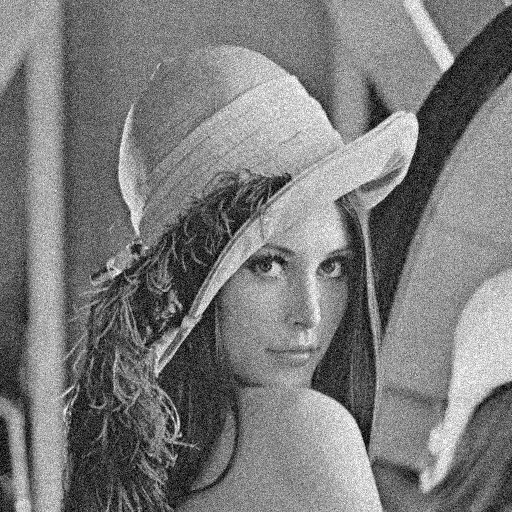
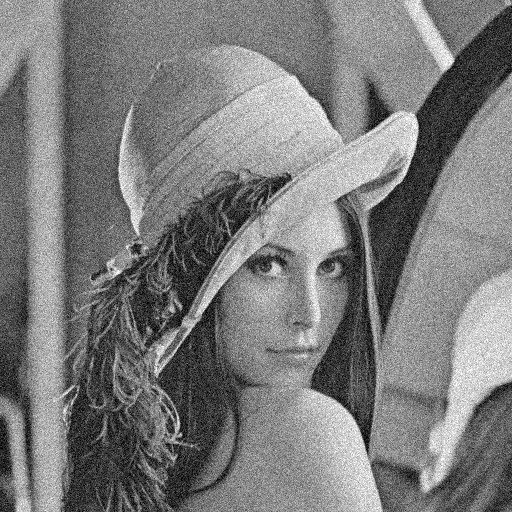
已经完成了基于KSVD OMP的字典学习和图像去噪框架

diff --git a/DCTlearning.py b/DCTlearning.py
@@ -1,7 +1,21 @@
+#===============字典学习的几个相关概念===========================
+# 1.[原始样本]  "以前的知识 Y"
+# 2.[字典矩阵]  "字典D"   [原子]  "字典中的词条 列向量dk"
+# 3.[稀疏矩阵]  "查字典的方法 X"
+# 4.[矩阵乘法]  "查字典的过程 DX"
+# 
+# 主要思想：利用字典矩阵 稀疏线性表示原始样本
+# 
+#===============================================================
+import cv2
 import matplotlib.pyplot as plt
 import numpy as np
 import scipy as sp
+import copy
+import math
 from sklearn import linear_model
+
+from  ImageTools import *
 
 
 class KSVD:
@@ -25,7 +39,7 @@ class KSVD:
         self.tol = tol
         self.n_nonzero_coefs = n_nonzero_coefs 
 
-     def OMP(self,X,y,n_nonzero_coefs=None):
+    def OMP(self,X,y,n_nonzero_coefs=None):
         ''' 稀疏编码 
 
         OMP算法(正交匹配追踪) 
@@ -33,7 +47,6 @@ class KSVD:
         这里借助 sklearn 模块实现
         =============================================
         '''
-
         return linear_model.orthogonal_mp(X,y,n_nonzero_coefs)
 
     def creat_DCT(self):
@@ -48,9 +61,7 @@ class KSVD:
         u,s,v = np.linalg.svd(self.pic)
         self.DCT=u[:,:self.n_components]
 
-   
-    
-    def update_DCT(self,y,d,x):
+    def _update_DCT(self,y,d,x):
         ''' 字典更新 
         KSVD 算法
         ============================================
@@ -83,7 +94,6 @@ class KSVD:
     
     def fit(self):
         ''' 迭代构建字典
-
         ==============================================
         0. 根据输入图片初始化字典
         1. 根据迭代次数更新字典
@@ -96,9 +106,11 @@ class KSVD:
         '''
         #0.初始化字典
         self.creat_DCT()
+        print("[+]==============created DCT================")
 
         #1.迭代更新字典
         for i in range(self.max_iter):
+            print("[*] update DCT {}/{}".format(i,self.max_iter))
             # 1.1 稀疏编码x
             x=self.OMP(self.DCT,self.pic,self.n_nonzero_coefs)
             # 1.2 计算误差
@@ -107,13 +119,61 @@ class KSVD:
             if e < self.tol:
                 break
             # 1.2.2 否则更新字典
-            self.update_DCT(self.pic,self.DCT,x)
+            self._update_DCT(self.pic,self.DCT,x)
         
         # 2.计算稀疏矩阵
         self.sparsecode=self.OMP(self.DCT,self.pic,self.n_nonzero_coefs)
 
-        return self.DCT,self.sparsecode
+        print("[+]===========DCT fited===================")
 
+        return self.DCT,self.sparsecode
+    
+    def SparseReduction(self,show_cmp=True,show_cmp_save_dir='./images/denoise/'):
+        ''' 图像稀疏还原
+        :params show_cmp: boolean 是否显示对比图画
+        :return 还原后的图像
+        ====================================
+        查字典 DX 字典D*稀疏矩阵X
+        '''
+
+        # 稀疏还原
+        imgReduction=np.array(np.dot(self.DCT,self.sparsecode),dtype=int)
+
+        if show_cmp:
+            # 显示对比图像
+            plt.figure()
+            
+            plt.subplot(1,2,1)
+            plt.imshow(self.pic,cmap ='gray')
+            plt.text(-100,-100,"n_components:{}".format(self.n_components))
+            plt.text(-100,-60,"max_iter:{}".format(self.max_iter))
+            plt.text(-100,-20,"tol:{}".format(self.tol))
+            plt.title("noise")
+            plt.subplot(1,2,2)
+            plt.imshow(imgReduction,cmap ='gray')
+            plt.title("denoise")
+            if show_cmp_save_dir:
+                plt.savefig("{}\KSVD_n{}_iter{}_tol{}.png".format(
+                    show_cmp_save_dir,self.n_components,self.max_iter,self.tol))
+            plt.show()
+    def denoise(self,show_cmp=True,show_cmp_save_dir='.\images\denoise'):
+        ''' 图像去噪 
+        其实也就是字典稀疏还原
+        '''
+        self.SparseReduction(show_cmp,show_cmp_save_dir)
+
+if __name__ == "__main__":
+    # 原正常图像
+    img=cv2.imread('.\images\lenna.bmp',0)
+    # 生成噪声图像
+    gaussImg=GaussianNoise(img,1.0,20)
+
+    # KSVD字典学习类
+    ksvd=KSVD(gaussImg,64)
+    # 学习 更新字典
+    ksvd.fit()
+    # 稀疏还原 也就是去噪
+    ksvd.denoise()
 
 
 

diff --git a/ImageTools.py b/ImageTools.py
@@ -27,7 +27,7 @@
 #
 # *****************去噪效果评价算法***************
 #    1.SNR  [信噪比] 计算图像自身的信噪比  输入为一幅图片
-#    2.PSNR [峰值信噪比] 计算两个图像之间的相似度  如果没有原图做比较 则说服力会差一点
+#    2.PSNR [峰值信噪比] 计算两个图像之间的相似度  去噪后的图片和原图做比较
 #    3.SSIM [结构相似性] 衡量两幅图像相似度
 #=================================================
 import numpy as np

diff --git a/README.md b/README.md
@@ -9,7 +9,7 @@
 
 - 图像工具
     - 图像加噪
-        - [x] 高斯噪声
+        - [x]  高斯噪声
         - [x]  椒盐噪声
         - [x]  瑞利噪声
         - [x]  伽马噪声
@@ -20,4 +20,7 @@
         - [x]  SSIM 结构相似度
 - 字典学习
     - [x] KSVD字典学习
-        - OMP稀疏表示
+    - [x] OMP稀疏表示
+
+## 去噪初步效果
+![初步效果](.\images\denoise\KSVD_n64_iter30_tol1e-06.png)
